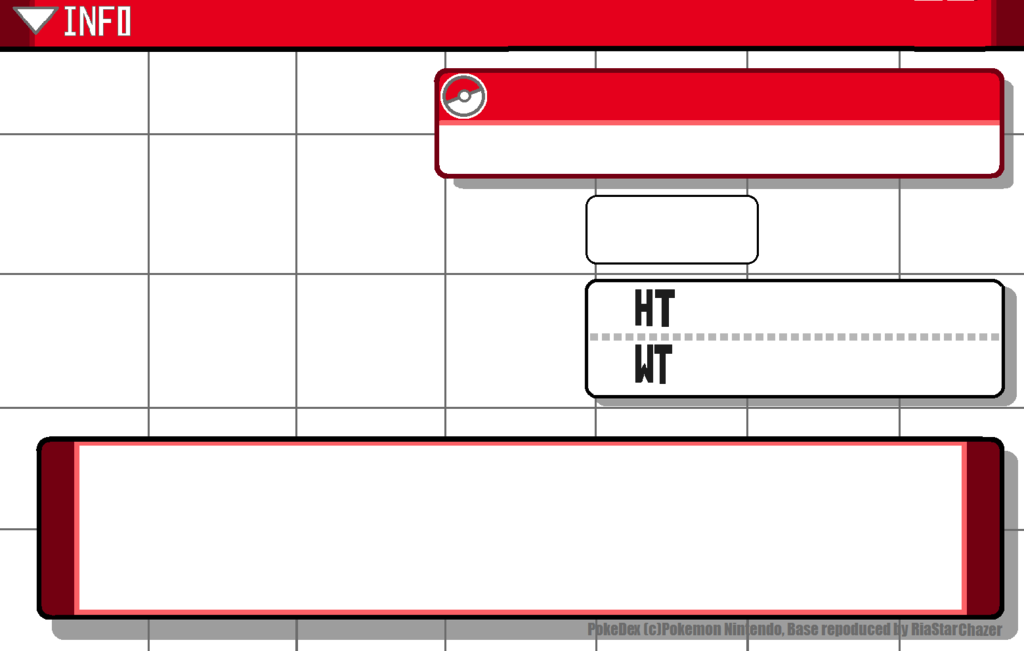
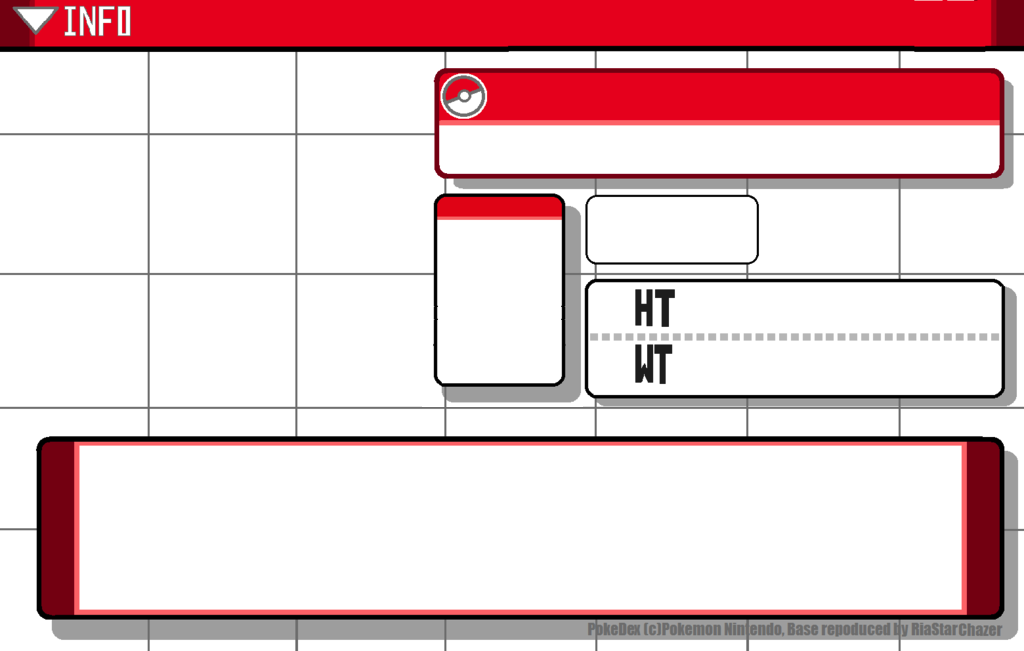
things are where they should be and look good. time to break it.

Changed region(s): [[0.4062, 0.2765, 0.5938, 0.6452]]

diff --git a/pokedex.html b/pokedex.html
@@ -13,23 +13,62 @@
     <title>Pokedex</title>
   </head>
   <body>
-    <div id="background">
-    <img class="hidden" id="pokedex">
+<div id="background">
+       <section class="hidden" id="infoScreen">
+        <img id="pokeImage" src="https://encrypted-tbn0.gstatic.com/images?q=tbn:ANd9GcTioW2IhMe_KtYj-61PdgqO9Qdvt1BMiw4yteITIgc-vBFilqqE"> -->
+        <div id="pokemonSelect">Select Pokemon</div>
+        <div id="pokemonSelectBox"> <ul>
+          <li>001 Bulbasor</li>
+          <li>002 uhhhhhhhh</li>
+          <li>003 Venasaur? Probably</li>
+          <li>004 Charmander</li>
+          <li>005 Flame Rat 2</li>
+          <li>006 Charazard</li>
+          <li>003 Venasaur? Probably</li>
+          <li>004 Charmander</li>
+          <li>005 Flame Rat 2</li>
+          <li>006 Charazard</li>
+          <li>003 Venasaur? Probably</li>
+          <li>004 Charmander</li>
+          <li>005 Flame Rat 2</li>
+          <li>006 Charazard</li>
+          <li>003 Venasaur? Probably</li>
+          <li>004 Charmander</li>
+          <li>005 Flame Rat 2</li>
+          <li>006 Charazard</li>
+          <li>003 Venasaur? Probably</li>
+          <li>004 Charmander</li>
+          <li>005 Flame Rat 2</li>
+          <li>006 Charazard</li>
+        </ul> </div>
+        <div id="pokeName">Squirttle</div>
+        <div id="pokeNumber">007</div>
+        <div id="type">TypeFill</div>
+        <div id="ht">56 inches </div>
+        <div id="wt">56 kg</div>
+        <div id="descriptionBox">Lorem ipsum dolor sit amet, consectetur adipisicing elit, sed do eiusmod tempor incididunt ut labore et dolore magna aliqua. Ut enim ad minim veniam, quis nostrud exercitation ullamco laboris nisi ut aliquip ex ea commodo consequat. Duis aute irure dolor in reprehenderit in voluptate velit esse cillum dolore eu fugiat nulla pariatur. Excepteur sint occaecat cupidatat non proident, sunt in culpa qui officia deserunt mollit anim id est laborum.</div>
+        <img id="pokedex">
+      </section>
 
-      </div>
+
       <section class="pokedexContainer">
 
       <img onclick="start()" class="revealed" id="startScreen">
-      <img  class="revealed animated infinite flash " id="pressStart">
-    </seciton>
-    </div>
+      <img class="revealed animated infinite flash " id="pressStart">
 
-    </div>
+    </seciton>
+</div>
+
+
   </body>
   <script src="main.js">
 
   </script>
 </html>
+<!-- <div id="info">
+
+</div>
+<button  onclick="loadDoc()">CLICK ME</button> -->
 
 
 <!-- You need a Trainer name

diff --git a/main.css b/main.css
@@ -8,6 +8,7 @@ top: 0px;
 left: 0px;
 }
 
+
 #startScreen {
 position: relative;
 top: 85px;
@@ -29,6 +30,87 @@ left: 150px;
 position: absolute;
 top: 1px;
 left: 1px;
+}
+
+#infoScreen {
+  color: black;
+  text-shadow: 2px 2px 5px gray;
+}
+#pokeImage {
+  position: relative;
+  top: 120px;
+  left: 150px;
+  z-index: 2;
+}
+
+#pokemonSelect  {
+  position: relative;
+  top: -10px;
+  left: 545px;
+  z-index: 2;
+  font-size: 60%;
+  color: white;
+  text-shadow: 2px 2px black;
+}
+
+#pokemonSelectBox  {
+  position: relative;
+  top: 0px;
+  left: 510px;
+  z-index: 2;
+  font-size: 60%;
+  overflow: auto;
+  height: 160px;
+  width: 175px;
+  overflow: auto hidden;
+}
+
+#pokeName {
+  position: relative;
+  top: -250px;
+  left: 625px;
+  z-index: 2;
+  color: black;
+  text-shadow: 2px 2px 5px gray;
+}
+
+#pokeNumber {
+  position: relative;
+  top: -315px;
+  left: 625px;
+  z-index: 2;
+  color: white;
+  text-shadow: 2px 2px black;
+}
+
+#type {
+  position: relative;
+  top: -190px;
+  left: 750px;
+  z-index: 2;
+}
+
+#ht {
+  position: relative;
+  top: -120px;
+  left: 850px;
+  z-index: 2;
+}
+
+#wt {
+  position: relative;
+  top: -70px;
+  left: 850px;
+  z-index: 2;
+}
+
+#descriptionBox {
+  position: relative;
+  top: 30px;
+  left: 120px;
+  z-index: 2;
+  overflow: auto hidden;
+  width: 80%;
 }
 
 .revealed {

diff --git a/main.js b/main.js
@@ -41,7 +41,27 @@ function start() {
   z.classList.remove("infinite");
   z.classList.remove("flash");
 
-  var y = document.getElementById("pokedex")
+  var y = document.getElementById("infoScreen")
   y.classList.add("revealed");
   y.classList.remove("hidden");
 }
+
+//state and status *** status of 200 means it was successful 503 means internal service error 404 means not found.
+
+//http verbs specify what kind of request you're making (get post patch and delete are main verbs.)
+
+//get - get something from bulletin board. post - put stuff onto a bulletin board. patch - update info. delete - delete it.
+
+//
+
+// function loadDoc() {
+//   var xhttp = new XMLHttpRequest();
+//   xhttp.onreadystatechange = function() {
+//     if (this.readyState == 4 && this.status == 200) {
+//       document.getElementById("info").innerHTML =
+//       this.responseText;
+//     }
+//   };
+//   xhttp.open("GET", "https://raw.githubusercontent.com/bemsuero/pokerepo/master/test.txt", true);
+//   xhttp.send();
+// }
